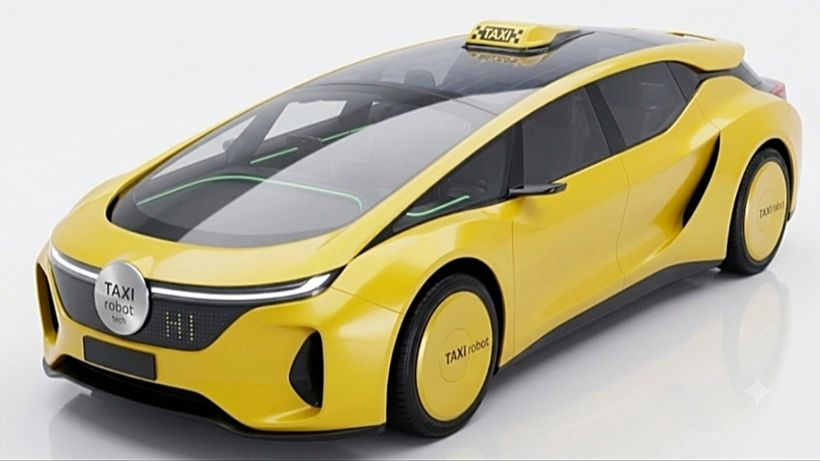
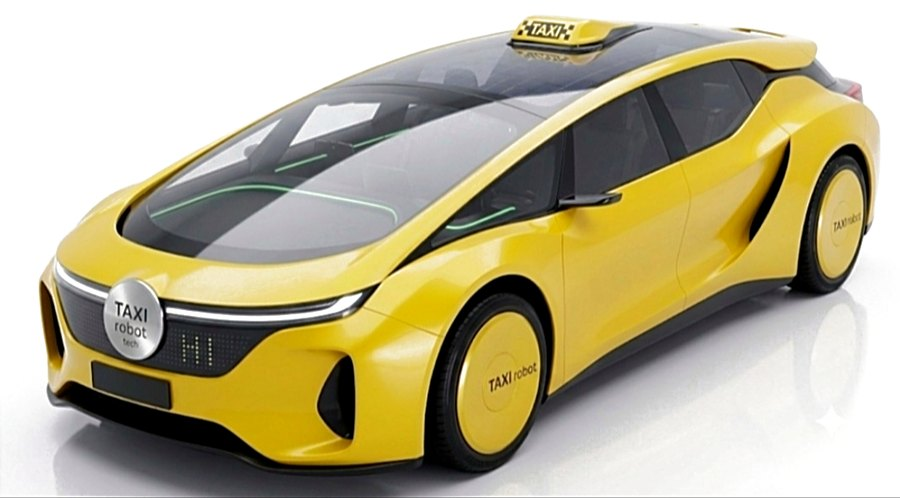
v140-picfix: сүрөттүн фону ак, созулбайт

diff --git a/web/templates/me.html b/web/templates/me.html
@@ -18,7 +18,12 @@
     margin-top: 14px; border-radius: 16px 16px 0 0;
     overflow: hidden; line-height: 0; background: #fff;
   }
-  .brandpic img { width: 100%; display: block; }
+  /* v140: аспект катышы бекитилди — браузер сүрөттү
+     эч качан өзүнчө чоюп жибербейт. */
+  .brandpic img {
+    width: 100%; height: auto; display: block;
+    aspect-ratio: 900 / 498;
+  }
   .brandpic + .info-card {
     margin-top: 0; border-radius: 0 0 16px 16px;
   }
@@ -110,8 +115,8 @@
 {% endif %}
 
 <div class="brandpic">
-  <img src="/static/robotaxi.jpg" alt="ТАКСИ роБОТ"
-       loading="lazy" width="820" height="461">
+  <img src="/static/robotaxi.jpg?v=2" alt="ТАКСИ роБОТ"
+       loading="lazy" width="900" height="498">
 </div>
 
 <div class="info-card">
